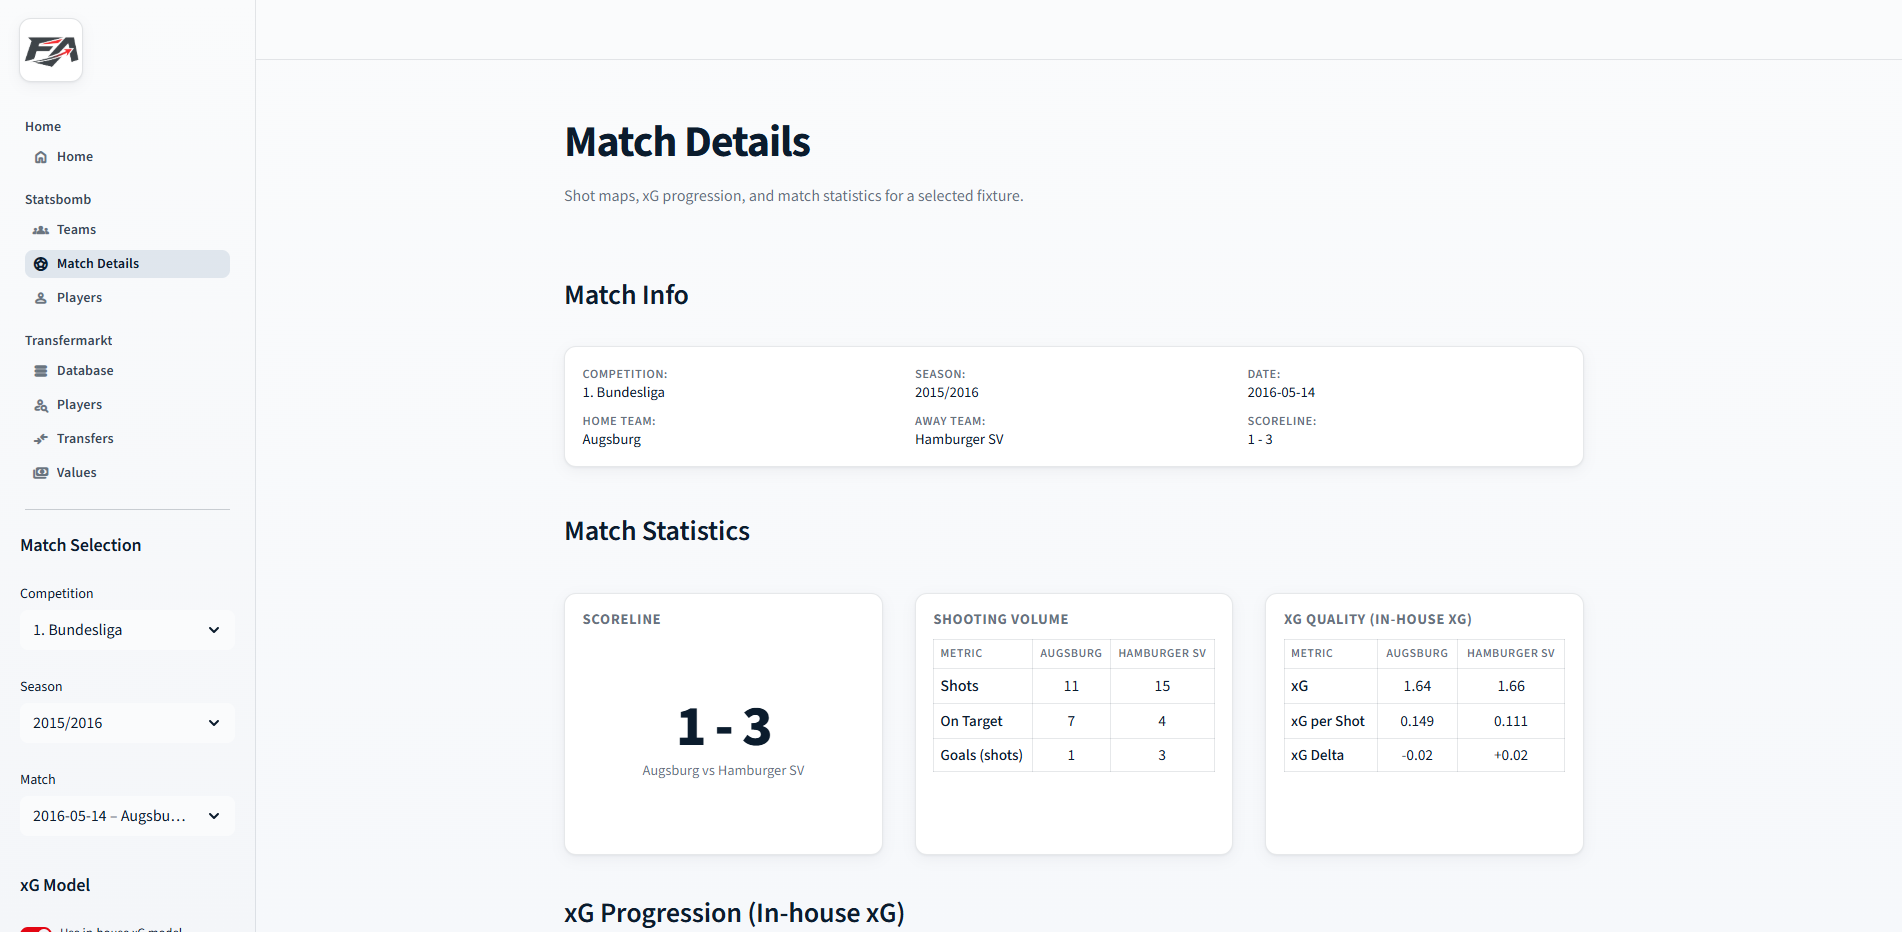
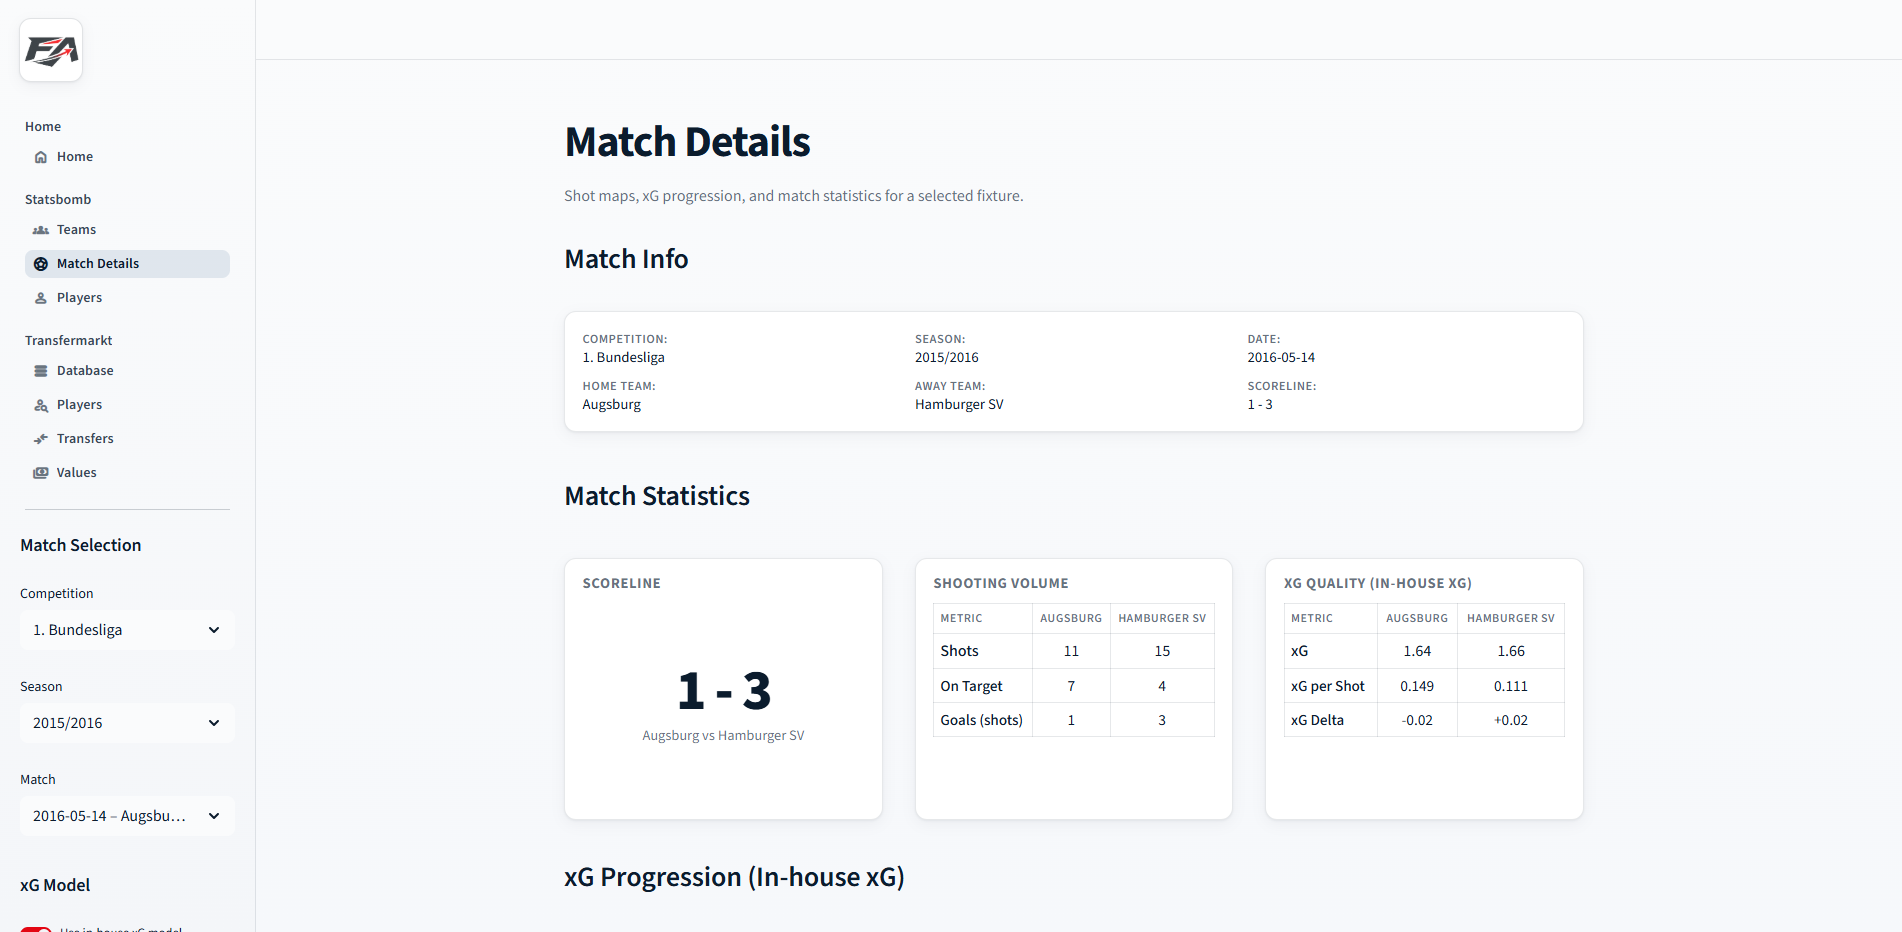
Update UI.

diff --git a/apps/streamlit/pages/Statsbomb/Match Details.py b/apps/streamlit/pages/Statsbomb/Match Details.py
@@ -12,9 +12,18 @@ package_root = str(SRC_PATH / "football_analytics")
 loaded_pkg = sys.modules.get("football_analytics")
 if loaded_pkg is not None and hasattr(loaded_pkg, "__path__"):
     pkg_paths = [str(p) for p in loaded_pkg.__path__]
-    if package_root not in pkg_paths:
-        loaded_pkg.__path__.append(package_root)
+    if package_root in pkg_paths:
+        loaded_pkg.__path__.remove(package_root)
+    loaded_pkg.__path__.insert(0, package_root)
 importlib.invalidate_caches()
+
+loaded_shots_module = sys.modules.get("football_analytics.visuals.shots")
+if loaded_shots_module is not None:
+    shots_module_file = getattr(loaded_shots_module, "__file__", "")
+    if shots_module_file and not Path(shots_module_file).resolve().is_relative_to(
+        SRC_PATH.resolve()
+    ):
+        sys.modules.pop("football_analytics.visuals.shots", None)
 
 from football_analytics.visuals import shots
 import streamlit as st
@@ -59,8 +68,8 @@ inject_sidebar_navigation_brand(ICON_PATH)
 page_header(
     "Match Details",
     "Shot maps, xG progression, and match statistics for a selected fixture.",
+    content_max_width_px=1320,
 )
-enable_plotly_auto_resize()
 
 competitions = load_competitions()
 teams = load_teams()
@@ -404,6 +413,7 @@ with col3:
     )
 
 section_heading(f"xG Progression ({xg_label})")
+enable_plotly_auto_resize()
 fig = shots.plot_xg_progression(
     shots=shot_data,
     home_team_id=home_team_id,
@@ -449,9 +459,9 @@ if len(available_shot_columns) != len(shot_overview_columns):
         )
 
 st.session_state.setdefault("shot_selected", None)
-pitch_height = 520
+overview_pitch_height = 495
+detail_pitch_height = 495
 pitch_margin = dict(l=0, r=0, t=0, b=10)
-pitch_y_domain = [0.05, 1]
 
 fig = shots.plot_shot_overview(
     shot_data[available_shot_columns].to_dict(orient="records"),
@@ -465,15 +475,15 @@ fig = shots.plot_shot_overview(
     pitch_padding=0,
     layout_margin=pitch_margin,
     fixed_size=False,
+    show_colorbar=True,
 )
 fig.update_layout(
-    height=pitch_height,
+    height=overview_pitch_height,
     margin=pitch_margin,
     autosize=True,
     margin_autoexpand=False,
 )
 fig.update_layout(dragmode="zoom")
-fig.update_yaxes(domain=pitch_y_domain)
 
 columns = st.columns(2)
 with columns[0]:
@@ -506,13 +516,12 @@ with columns[1]:
             away_team_id=away_team_id,
         )
         fig.update_layout(
-            height=pitch_height,
+            height=detail_pitch_height,
             margin=pitch_margin,
             autosize=True,
             margin_autoexpand=False,
         )
         fig.update_layout(dragmode="zoom")
-        fig.update_yaxes(domain=pitch_y_domain)
         st.plotly_chart(fig, use_container_width=True, config={"displayModeBar": False})
 
     elif shot_index is not None and 0 <= shot_index < len(shot_data):
@@ -534,13 +543,12 @@ with columns[1]:
             away_team_id=away_team_id,
         )
         fig.update_layout(
-            height=pitch_height,
+            height=detail_pitch_height,
             margin=pitch_margin,
             autosize=True,
             margin_autoexpand=False,
         )
         fig.update_layout(dragmode="zoom")
-        fig.update_yaxes(domain=pitch_y_domain)
         st.plotly_chart(fig, use_container_width=True, config={"displayModeBar": False})
     else:
         st.warning("Selected shot index is out of range.")

diff --git a/src/football_analytics/streamlit/theme.py b/src/football_analytics/streamlit/theme.py
@@ -19,7 +19,7 @@ BRAND_CARD_BG = "#FFFFFF"
 _APP_STYLES_INJECTED = False
 
 
-def inject_app_styles(*, force: bool = False) -> None:
+def inject_app_styles(*, force: bool = False, content_max_width_px: int = 1180) -> None:
     """Inject global CSS once per session (typography, layout, cards, sidebar)."""
     global _APP_STYLES_INJECTED
     if _APP_STYLES_INJECTED and not force:
@@ -54,7 +54,7 @@ def inject_app_styles(*, force: bool = False) -> None:
 .block-container {{
     padding-top: 0.85rem;
     padding-bottom: 2.4rem;
-    max-width: 1180px;
+    max-width: {content_max_width_px}px;
 }}
 div[data-testid="stMainBlockContainer"] {{
     padding-top: 0.15rem !important;
@@ -500,14 +500,21 @@ div[data-testid="stDataFrame"] {{
     )
 
 
-def page_header(title: str, subtitle: str | None = None) -> None:
+def page_header(
+    title: str,
+    subtitle: str | None = None,
+    *,
+    content_max_width_px: int = 1180,
+    margin_top: str = "-3.0rem",
+    margin_bottom: str = "-0.9rem",
+) -> None:
     """Render a consistent page title and optional caption."""
-    inject_app_styles()
+    inject_app_styles(content_max_width_px=content_max_width_px)
     subtitle_html = (
         f'<p class="page-caption">{escape(subtitle)}</p>' if subtitle else ""
     )
     st.markdown(
-        f'<div class="page-header"><h1 class="page-title">{escape(title)}</h1>{subtitle_html}</div>',
+        f'<div class="page-header" style="margin-top: {margin_top}; margin-bottom: {margin_bottom};"><h1 class="page-title">{escape(title)}</h1>{subtitle_html}</div>',
         unsafe_allow_html=True,
     )
 

diff --git a/src/football_analytics/visuals/shots.py b/src/football_analytics/visuals/shots.py
@@ -274,6 +274,7 @@ def plot_shot_overview(
     layout_margin=None,
     fixed_size=False,
     height_figure=300,
+    show_colorbar=True,
 ):
     """
     Overview of all shots on the pitch.
@@ -340,18 +341,14 @@ def plot_shot_overview(
                 colorscale="Reds",
                 cmin=0,
                 cmax=1,
-                showscale=True,
+                showscale=show_colorbar,
                 line=dict(color="#3F4646", width=1),
                 colorbar=dict(
-                    title=dict(
-                        text="Expected Goals (xG)",
-                        font=dict(size=10),
-                        side="bottom",
-                    ),
+                    title=dict(text="xG", font=dict(size=9), side="bottom"),
                     orientation="h",
-                    len=0.7,
-                    thickness=8,
-                    y=0.025,
+                    len=0.52,
+                    thickness=6,
+                    y=0.012,
                     yanchor="middle",
                     x=0.5,
                     xanchor="center",

diff --git a/apps/streamlit/Home.py b/apps/streamlit/Home.py
@@ -51,6 +51,7 @@ def render_home() -> None:
     page_header(
         "Football Analytics",
         "Explore match intelligence from StatsBomb and market data from Transfermarkt in one dashboard.",
+        margin_top="0.15rem",
     )
 
     st.markdown(

diff --git a/apps/streamlit/pages/Statsbomb/Players.py b/apps/streamlit/pages/Statsbomb/Players.py
@@ -51,6 +51,7 @@ inject_sidebar_navigation_brand(ICON_PATH)
 page_header(
     "Players",
     "Search by name or filter by competition, season, and team.",
+    content_max_width_px=1320,
 )
 section_heading("Player Search and Filter")
 players = load_players()

diff --git a/apps/streamlit/pages/Statsbomb/Teams.py b/apps/streamlit/pages/Statsbomb/Teams.py
@@ -56,6 +56,7 @@ def load_table(table_name: str, key_column: str, columns: str = "*") -> pd.DataF
 page_header(
     "Club List",
     "Browse unique club names from the teams table in the database.",
+    content_max_width_px=1320,
 )
 
 with st.sidebar:

diff --git a/apps/streamlit/pages/Transfermarkt/Database.py b/apps/streamlit/pages/Transfermarkt/Database.py
@@ -94,6 +94,7 @@ def _format_delta(delta: int) -> tuple[str, str, str]:
 page_header(
     "Transfermarkt Database",
     "Overview of core Transfermarkt tables and a snapshot of additions from the last 7 days.",
+    content_max_width_px=1320,
 )
 
 table_specs = [

diff --git a/apps/streamlit/pages/Transfermarkt/Players.py b/apps/streamlit/pages/Transfermarkt/Players.py
@@ -52,6 +52,7 @@ inject_sidebar_navigation_brand(ICON_PATH)
 page_header(
     "Transfermarkt Players",
     "Search players and view market value, club, and contract highlights.",
+    content_max_width_px=1320,
 )
 section_heading("Player Search and Filter")
 

diff --git a/apps/streamlit/pages/Transfermarkt/Transfers.py b/apps/streamlit/pages/Transfermarkt/Transfers.py
@@ -43,6 +43,7 @@ inject_sidebar_navigation_brand(ICON_PATH)
 page_header(
     "Transfermarkt Transfers",
     "Transfer history, move tracking, and squad changes.",
+    content_max_width_px=1320,
 )
 st.markdown(
     """

diff --git a/apps/streamlit/pages/Transfermarkt/Values.py b/apps/streamlit/pages/Transfermarkt/Values.py
@@ -43,6 +43,7 @@ inject_sidebar_navigation_brand(ICON_PATH)
 page_header(
     "Transfermarkt Values",
     "Squad values, player valuations, and market trends.",
+    content_max_width_px=1320,
 )
 st.markdown(
     """